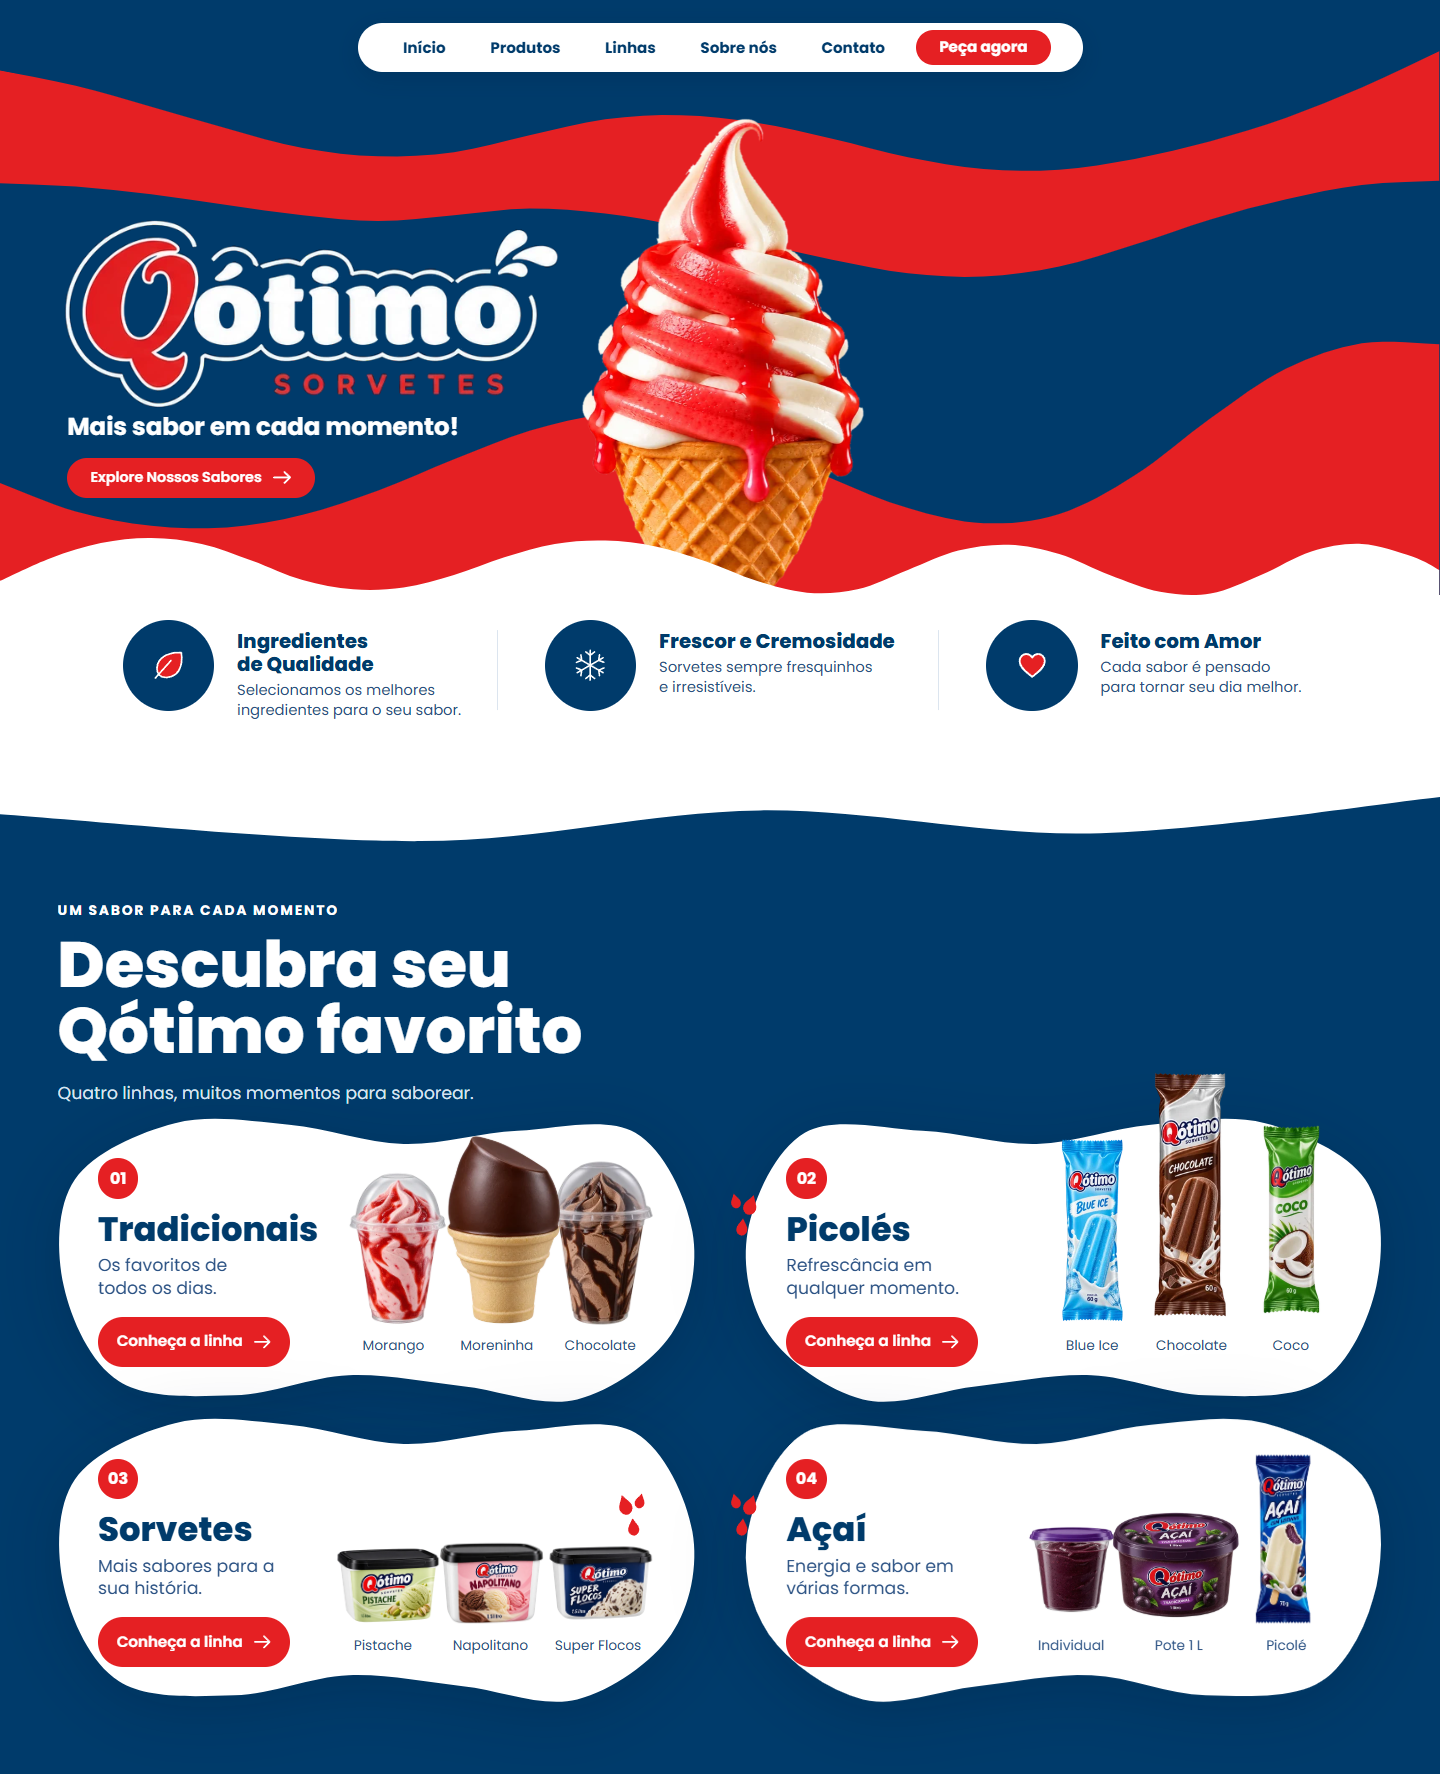
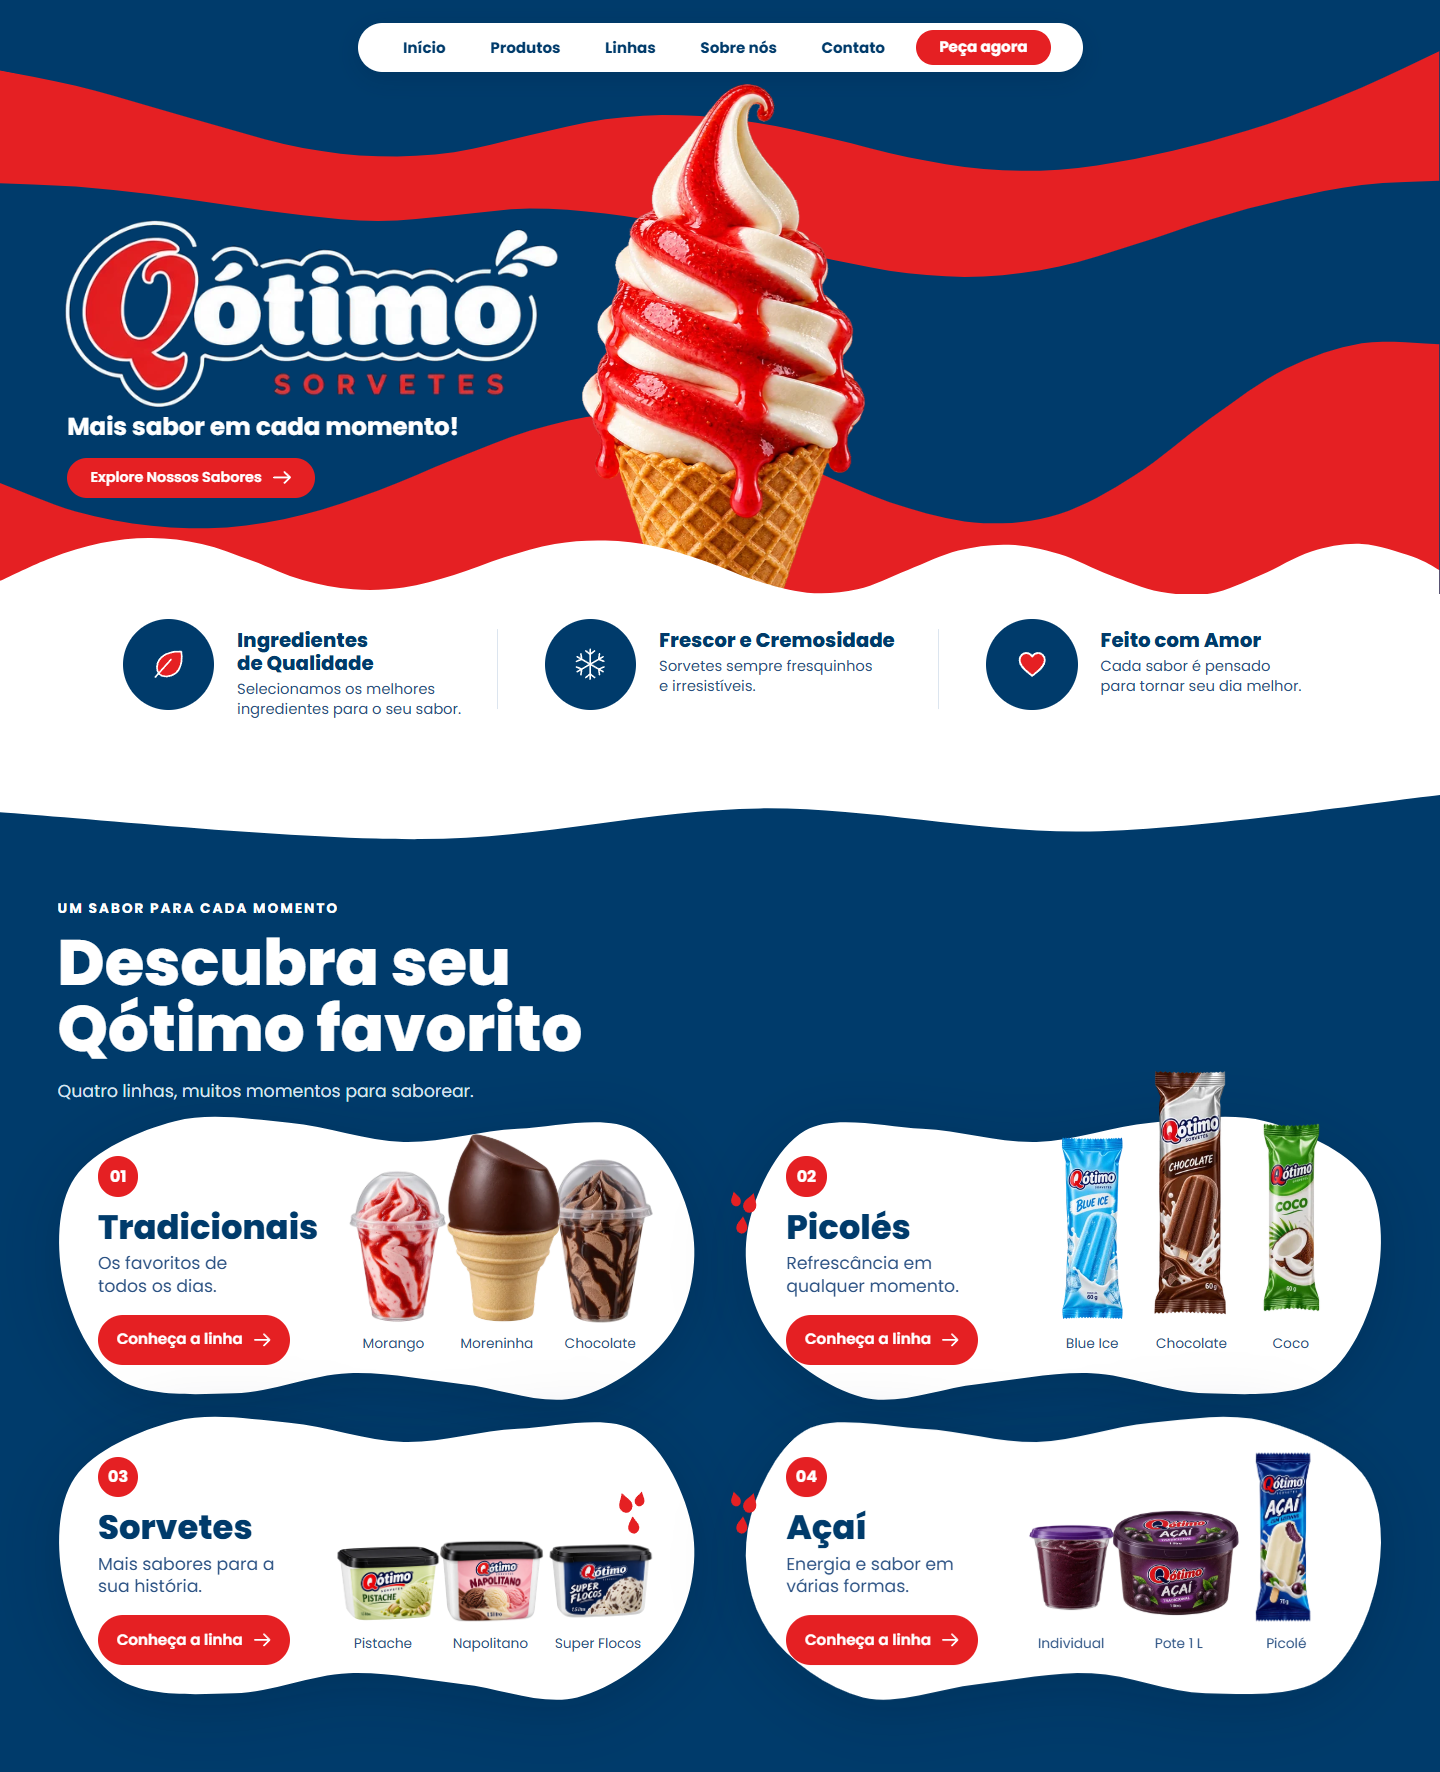
Ajuste final do heroi: emenda, cascao e faixa branca
1. LINHA VERMELHA DE 1px
   A borda de cima da faixa branca caia em coordenada fracionaria e o
   navegador pintava a faixa vermelha de tras misturada com o branco —
   uma linha de 1px atravessando a pagina. Resolvido com sobreposicao
   real, nao com arredondamento: a onda entra 1px na faixa branca
   (inset-block-end: calc(100% - 1px)), a faixa sobe 1px
   (margin-block-start:-1px) e os SVGs de onda ficaram display:block.
   Mesmo tratamento na emenda entre a faixa branca e a secao Linhas.

   Conferido em 60 combinacoes (5 viewports x dpr 1/1.5/2 x zoom
   90/100/110/125%): nenhuma linha com R-B>20 na faixa branca.
   Controle negativo: revertendo so essa correcao, o detector acusa 23
   das 60 — justamente em dpr 1,5 e zoom 1,25, como o prompt previa.

2. CASCAO
   Trocado pelo arquivo entregue (cascao-hero, 1017x2430, margem 40 nos
   quatro lados). Saiu o cascao-arte. Com left 678u, top 86u e
   width 365u o OBJETO cai em: topo 100u (alvo 100), x 692..1029
   (alvo 692..1028), largura 337u (alvo 336) e ponta 944u (alvo 943),
   atras da faixa branca. Quem corta continua sendo a onda, nunca o
   overflow.

3. FAIXA BRANCA
   Estava com 268u porque a altura era min-height e o conteudo crescia.
   Travada em 210u no desktop, com os pilares a 29u do topo — o icone
   fica em 736u (alvo 737) e sobram ~60u embaixo, como na arte. Abaixo
   de 1100px volta a ser automatica com min-height de 210u.

Tabela-alvo em 1713x918: 31 de 31 dentro de +-6px.
[…]

diff --git a/site/styles.css b/site/styles.css
@@ -192,30 +192,43 @@ body>*{--u:min(100cqw / 1713, 100svh / 918, 1.25px)}
 .btn svg{width:calc(22 * var(--u));height:auto;fill:none;stroke:currentColor;stroke-width:2;stroke-linecap:round;stroke-linejoin:round}
 .btn:hover{background:#c5171a;transform:translateY(-2px)}
 
-/* cascao: recortado da propria arte. A tela tem margem esq 39 / topo 31,
-   entao left 677u + top 128u poem o objeto em x 692 / y 140, como na arte. */
+/* Cascao: arquivo com margem de 40px nos quatro lados. Com left 678u,
+   top 86u e width 365u o OBJETO cai em x 692..1029, topo 100u e ponta
+   944u — atras da faixa branca, que e quem o corta. Nunca esticar:
+   so width, com height:auto. */
 .hero__cascao{
   position:absolute;z-index:1;
-  inset-block-start:calc(128 * var(--u));
-  inset-inline-start:calc(677 * var(--u));
+  inset-block-start:calc(86 * var(--u));
+  inset-inline-start:calc(678 * var(--u));
   transform:none;
   display:block;
 }
 .hero__cascao img{
-  width:calc(366 * var(--u));
+  width:calc(365 * var(--u));
   max-width:none;height:auto;
 }
 
 /* onda branca na FRENTE do cascao: e ela que corta a ponta */
+/* A emenda da faixa branca caia em coordenada fracionaria e o navegador
+   pintava 1px de vermelho misturado com branco atravessando a pagina.
+   Resolvido com 1px de sobreposicao real, nao com arredondamento. */
 .hero__base{
   position:relative;z-index:2;
+  margin-block-start:-1px;
   background:var(--branco);
-  min-height:calc(210 * var(--u));
-  padding-block:calc(29 * var(--u)) calc(24 * var(--u));
+  /* 210u e a altura da faixa na arte. Travada no desktop; abaixo de
+     1100px ela volta a crescer para caber o texto em duas linhas. */
+  height:calc(210 * var(--u));
+  display:grid;align-items:start;
+  /* 29u do topo poe o icone em 737u, como na arte; os ~60u que sobram
+     embaixo tambem existem na arte (o texto acaba em ~853u de 918u) */
+  padding-block-start:calc(29 * var(--u));
 }
 
 .hero__onda{
-  position:absolute;inset-inline:0;inset-block-end:100%;
+  position:absolute;inset-inline:0;
+  inset-block-end:calc(100% - 1px);   /* entra 1px na faixa branca */
+  display:block;
   width:100%;height:calc(68 * var(--u));
 }
 
@@ -282,6 +295,7 @@ body>*{--u:min(100cqw / 1713, 100svh / 918, 1.25px)}
 
 .linhas{
   position:relative;
+  margin-block-start:-1px;      /* mesma emenda, mesmo tratamento */
   overflow:hidden;
   background:var(--navy);
   padding-block:clamp(70px,9vw,150px) clamp(48px,6vw,104px);
@@ -292,6 +306,7 @@ body>*{--u:min(100cqw / 1713, 100svh / 918, 1.25px)}
    feita por uma onda, nao por uma linha reta. */
 .linhas__onda{
   position:absolute;inset-block-start:0;inset-inline:0;z-index:0;
+  display:block;
   width:100%;height:clamp(40px,6vw,96px);
 }
 
@@ -474,7 +489,13 @@ body>*{--u:min(100cqw / 1713, 100svh / 918, 1.25px)}
   .produto+.produto{margin-inline-start:-4%}
 }
 
-@media (max-width:1100px){
+@media (max-width:1099px){
+  /* a faixa deixa de ser travada: o texto do pilar passa a duas linhas */
+  .hero__base{
+    height:auto;
+    min-height:calc(210 * var(--u));
+    padding-block:calc(22 * var(--u));
+  }
   .pilar{padding-inline:clamp(6px,1.2vw,18px)}
 }
 
@@ -603,7 +624,7 @@ body>*{--u:min(100cqw / 1713, 100svh / 918, 1.25px)}
   .hero__onda{height:calc(26 * var(--um))}
 
   .hero__base{
-    min-height:0;
+    height:auto;min-height:0;
     padding-block:calc(26 * var(--um)) calc(30 * var(--um));
   }
 

diff --git a/site/index.html b/site/index.html
@@ -15,8 +15,8 @@
 <link href="https://fonts.googleapis.com/css2?family=Poppins:wght@400;500;600;700;800&display=swap" rel="stylesheet">
 <link rel="stylesheet" href="styles.css">
 
-<link rel="preload" as="image" href="assets/hero/cascao-arte-700.webp"
-      imagesrcset="assets/hero/cascao-arte-460.webp 460w, assets/hero/cascao-arte-700.webp 700w, assets/hero/cascao-arte-944.webp 944w"
+<link rel="preload" as="image" href="assets/hero/cascao-hero-760.webp"
+      imagesrcset="assets/hero/cascao-hero-500.webp 500w, assets/hero/cascao-hero-760.webp 760w, assets/hero/cascao-hero-1017.webp 1017w"
       imagesizes="(max-width: 899px) 60vw, 21vw" fetchpriority="high">
 </head>
 <body>
@@ -71,10 +71,10 @@
       </div>
 
       <div class="hero__cascao">
-        <img src="assets/hero/cascao-arte-700.webp"
-             srcset="assets/hero/cascao-arte-460.webp 460w, assets/hero/cascao-arte-700.webp 700w, assets/hero/cascao-arte-944.webp 944w"
+        <img src="assets/hero/cascao-hero-760.webp"
+             srcset="assets/hero/cascao-hero-500.webp 500w, assets/hero/cascao-hero-760.webp 760w, assets/hero/cascao-hero-1017.webp 1017w"
              sizes="(max-width: 899px) 60vw, 21vw"
-             width="944" height="1640" fetchpriority="high"
+             width="1017" height="2430" fetchpriority="high"
              alt="Casquinha de sorvete de creme com calda de morango">
       </div>
     </div>

diff --git a/correcao/ajuste-final/PROMPT-ajuste-final.md b/correcao/ajuste-final/PROMPT-ajuste-final.md
@@ -1,0 +1,118 @@
+# Ajuste final do herói — 3 correções
+
+O herói já está quase certo. Medi a sua captura (1710×1307) contra a arte
+`identidade/assets-v2/04-referencias-aprovadas/01-home-aprovada.png` pixel a pixel.
+**Já bate e NÃO deve ser tocado:**
+
+| Item | Arte | Atual |
+|---|---|---|
+| Faixa vermelha do topo (x=5) | y 83→219 | y 84→215 |
+| Faixa vermelha de baixo (x=1692) | y 409→672 | y 405→668 |
+| Logo | x 77→659, w 583, y 255→469 | x 78→654, w 577, y 255→469 |
+| Tagline | y 486→522 | y 480→521 |
+| CTA "Peça agora" | 161×42 | 159×42 |
+| Ícones dos pilares | x 145 / 646 / 1168, Ø110, y 738 | x 144 / 641 / 1161, Ø108, y 729 |
+
+Só falta o que está abaixo. Tudo em `u` (a variável `--u` do herói).
+
+---
+
+## 1. Tirar a linha vermelha horizontal
+
+Existe uma linha de 1px atravessando a página inteira logo abaixo da onda branca.
+Na captura ela está em **y = 700**, cor medida **rgb(236, 88, 90)** — ou seja,
+`#E52023` misturado com branco, não uma borda de verdade.
+
+**Causa:** a borda superior da faixa branca (`.hero__base`) cai numa coordenada
+fracionária (≈700,4px). O navegador pinta essa linha como mistura da faixa
+vermelha que está atrás com o branco que começa em seguida. Não adianta procurar
+`border` no CSS — não existe.
+
+**Correção:** eliminar a emenda com 1px de sobreposição, não com arredondamento.
+
+- `.hero__onda` → `inset-block-end: calc(100% - 1px)` (a onda entra 1px na faixa branca)
+- `.hero__base` → `margin-block-start: -1px` e fundo branco opaco
+- garantir `display:block` nos SVGs de onda (SVG inline é `inline` por padrão e
+  gera o mesmo tipo de fresta por causa do baseline)
+- conferir a mesma emenda entre a faixa branca e a seção Linhas (`.linhas__onda`)
+
+**Verificação:** nas linhas 690–710, fora da área do cascão, nenhum pixel pode ter
+`R − B > 20`. Repetir com zoom do navegador em 90%, 100%, 110% e 125% e com
+devicePixelRatio 1, 1.5 e 2 — é nesses valores que a fresta aparece e some.
+
+---
+
+## 2. Trocar o cascão pelo arquivo certo
+
+O cascão em uso (`cascao-arte*`) não é o modelo escolhido. Use o arquivo entregue
+na pasta `cascao-hero/` deste pacote. É o mesmo cascão que já existe no repo em
+`identidade/assets-v2/03-elementos-hero/qotimo-cascao-hero.png`, apenas aparado
+com margem de segurança:
+
+- `cascao-hero.png` — 1017×2430 RGBA (mestre). Objeto em x 40→976, y 40→2389
+  (937 × 2350). Margem de 40px nos quatro lados.
+- `cascao-hero-{500,760,1017}.webp` — para o srcset.
+
+Copie para `site/assets/hero/`, atualize `srcset`, `sizes`, `preload` e
+`width="1017" height="2430"`. **Apague** `cascao-arte*` e os `cascao-hero-*.webp`
+antigos (700/1000/1400) — aqueles tinham a ponta encostando na borda do arquivo.
+
+### Posição (valores já validados por render)
+
+    .hero__cascao     { left: calc(678 * var(--u)); top: calc(86 * var(--u)) }
+    .hero__cascao img { width: calc(365 * var(--u)) }
+
+Resultado geométrico, que é o que precisa ser conferido:
+
+| Medida do OBJETO (não do arquivo) | Alvo |
+|---|---|
+| Topo do sorvete | y = 100u |
+| Largura máxima (onde a calda abre) | 336u |
+| Borda esquerda / direita | x 692u → 1028u (eixo em 860u) |
+| Início da casquinha (fim do sorvete) | y ≈ 613u |
+| Ponta da casquinha | y ≈ 943u — **fora da vista, atrás da faixa branca** |
+| Onda branca cruza a casquinha em | y ≈ 680u, deixando ≈ 65u de waffle à vista |
+
+### Regras de camada (é o que faz o corte acontecer)
+- A onda branca e a faixa branca são desenhadas **na frente** do cascão.
+  Quem corta o cascão é a onda, em qualquer viewport.
+- O cascão **não** pode ser cortado por `overflow` acima da linha da onda: ele
+  segue inteiro por trás do branco. Se o `overflow:hidden` do herói cortar o que
+  sobra abaixo da faixa branca, tudo bem — ali já está escondido.
+- Nunca esticar: só `width`, com `height:auto`.
+
+Se algum dia o arquivo do cascão mudar, o que vale é a tabela acima: topo do
+objeto em 100u, largura 336u, eixo em 860u, e a onda cruzando a casquinha.
+
+---
+
+## 3. Faixa branca dos pilares: 210u, não 268u
+
+Na captura em 1710×1307 a faixa branca vai de ~700 a 968 (**268u**) e sobra um
+vazio embaixo dos pilares. Na arte ela tem **210u**.
+
+- Travar a altura da faixa em `calc(210 * var(--u))` no desktop.
+- Pilares centralizados verticalmente dentro dela (ícone com o topo em ~737u,
+  como na arte).
+- Abaixo de 1100px de largura a faixa pode crescer para caber o texto em duas
+  linhas — aí a altura volta a ser automática, com `min-height` de 210u.
+
+---
+
+## Verificação final (obrigatória)
+
+1. Captura em 1713×918 + overlay 50% com a arte. Conferir: linha vermelha ausente,
+   cascão nas coordenadas da tabela (±8u), faixa branca com 210u.
+2. Matriz: 360×640, 390×844, 768×1024, 1024×768, 1366×768, 1440×900, 1710×1307,
+   1920×950, 2560×1310, 3440×1300. Em todas: a onda cruza a casquinha; nenhuma
+   linha vermelha em nenhuma emenda; sem rolagem lateral; nada cortado no topo.
+3. Na composição empilhada (<900px), o mesmo cascão, mesma regra: cortado pela
+   onda, nunca por `overflow`.
+4. Console sem erros.
+
+## Não faça
+- Não mexa nos paths das ondas nem nas faixas vermelhas — já estão corretos.
+- Não reposicione logo, tagline, botão, menu ou pilares — já estão dentro da
+  tolerância.
+- Não troque o cascão por outro arquivo nem gere um novo com IA.
+- Não resolva a linha vermelha pintando algo por cima; resolva a emenda.
